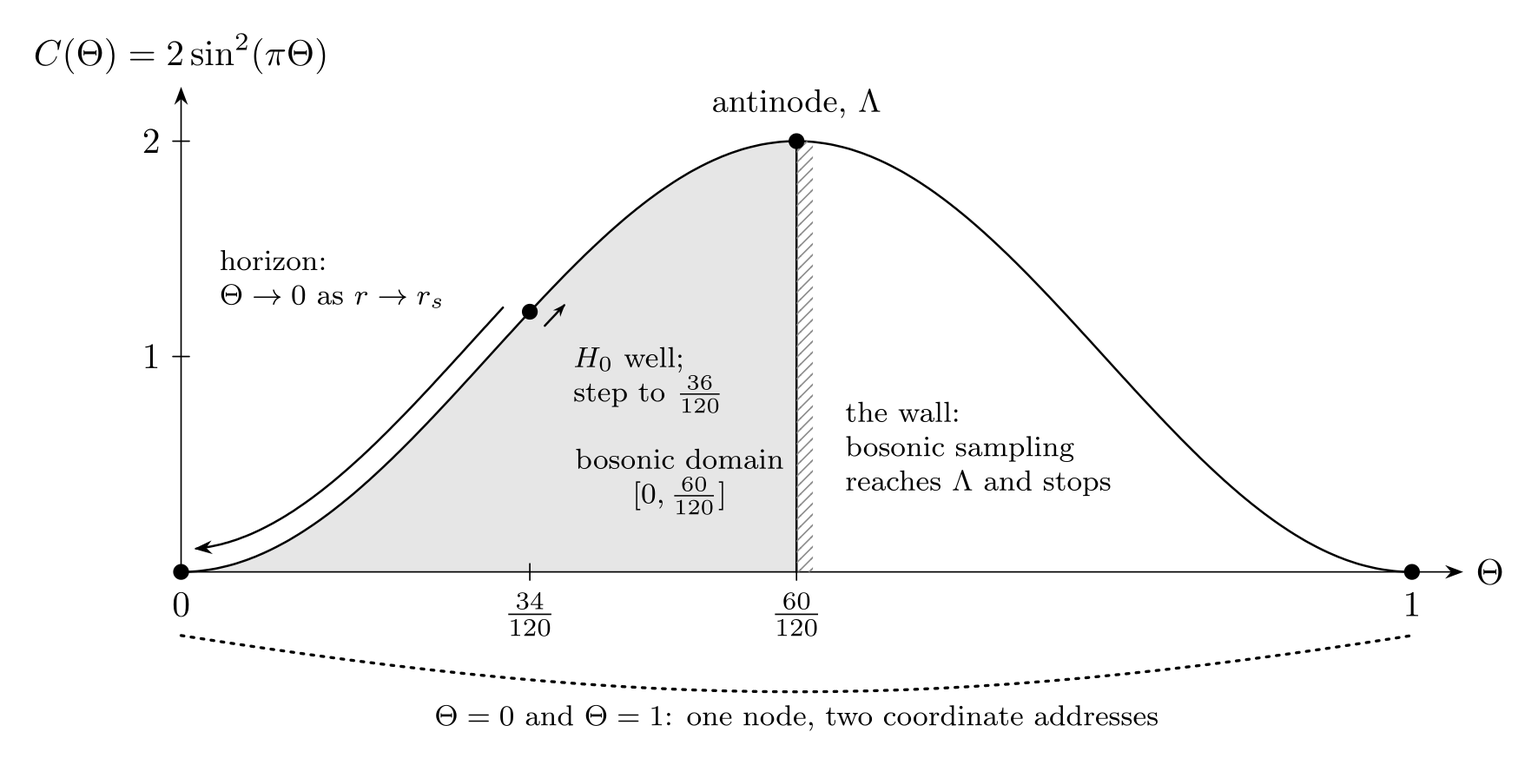
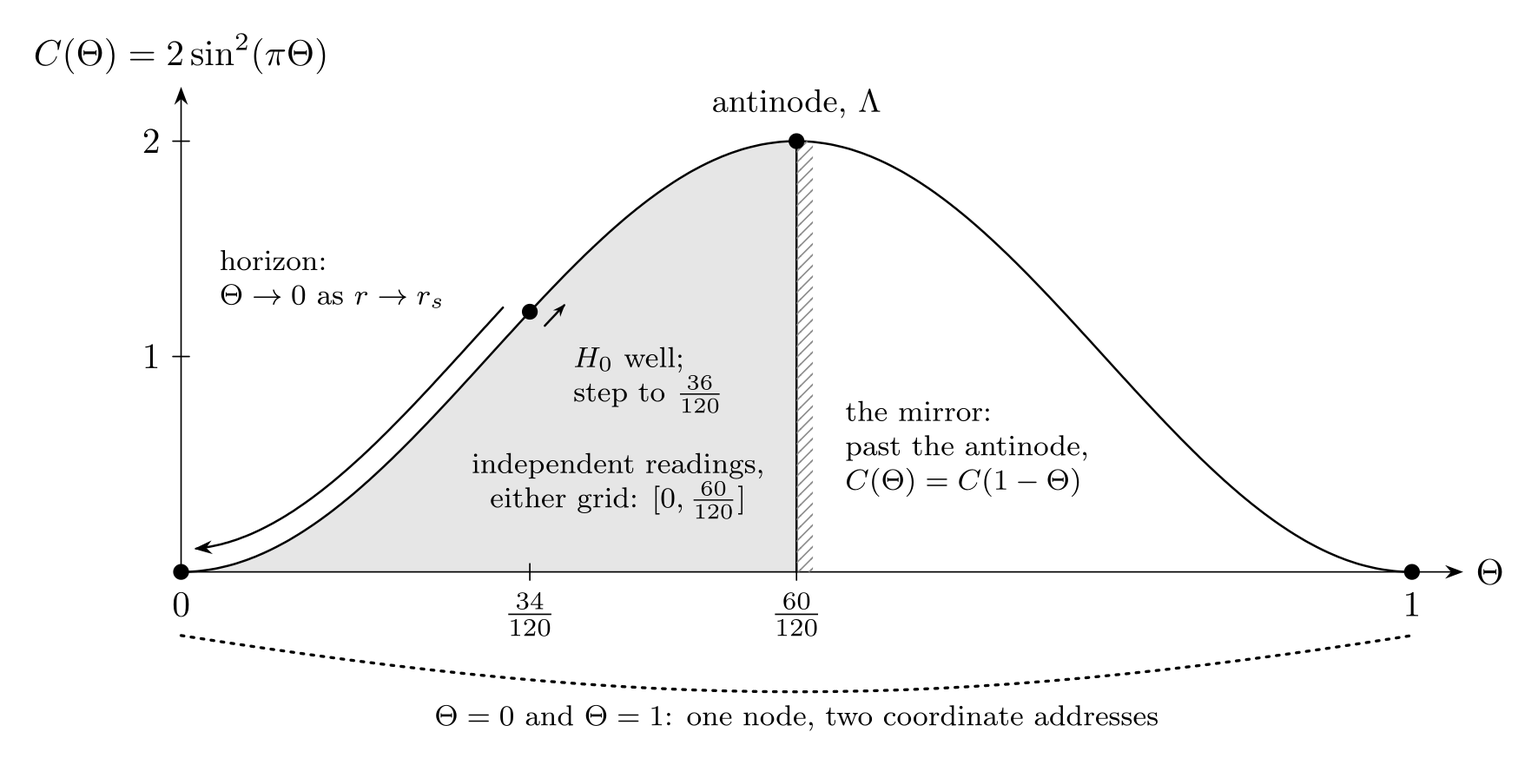
cosmos pages: Black Holes and Early Galaxies against their sources
Black Holes places the 3/2 where the framework does, carrying the
surface's curvature into the spatial curvature of S^3, with the 3
derived and the 2 imported, and keeps Omega_Psi apart from the edge
ledger Omega_H. Far from masses the ratio (Psi/S)^4 gives about
3 x 10^4 Omega_H; the Omega_Lambda normalization stays as the branch's
hypothesis. The antinode mirrors readings on both grids, with
C(Theta) = C(1 - Theta), rather than walling off a bosonic domain: the
section, its heading, the Quick Reference and the figure's labels say
so. The count of 28-32 of 32 characters is the Dirac zeta's.

Hubble Tension names the grid classes photon-mediated and dynamical, a
motivated assignment. Early Galaxies scopes the scaling law to its
readout premises and single-position observables, grades a_0/(cH_0) a
comparison on an assumed shared weight, as the Score rows also do, and
names the H_0 and a_0 seats as assignments. The README's Row IV cell
carries its deep-MOND clarification, and Dark Energy states what the
flat commitment costs under the propagation theorem.

Changed region(s): [[0.3106, 0.5823, 0.4969, 0.6742], [0.528, 0.521, 0.7143, 0.6436]]

diff --git a/files/cosmos/files/black-hole.md b/files/cosmos/files/black-hole.md
@@ -17,7 +17,7 @@ Where Θ hits the wall, and Ω may collapse with it. *A working supplement to Mo
 
 A Black Hole, in this framework, is presently a statement about the *exterior* geometry only: a region where enough wave content on the Möbius surface is enclosed that the phase position $`\Theta`$ reaches the boundary of its domain, driving the sampling amplitude $`C(\Theta) = 2\sin^2(\pi\Theta)`$ to zero as $`r \to r_s`$. That much, $`\Theta \to 0`$ and $`C(\Theta) \to 0`$ at the horizon, is DERIVED from the near-horizon mapping (§VIII.1), specifically for the exterior stationary observer congruence that mapping is built on (it is paired with the Schwarzschild lapse, §VIII.1). A freely falling observer crossing the horizon is not shown to experience any such vanishing, and in GR remains locally regular there; "observation ceases" throughout this page means the exterior stationary channel closes, not that observation ceases for every observer. A second, independent quantity, the local scale hierarchy $`\Omega_\Psi`$, is *conjectured* to collapse toward zero over the same approach; whether it does, for which observer's proper time, and how it relates to $`\Theta`$, is open (§II). Nothing here currently maps past the horizon: the interior and the classical singularity at $`r = 0`$ are not modeled by this construction (§VII).
 
-General Relativity sits at the 3/2 conversion interface (the 3 a Gauss/Ricci lift, the 1/2 the de Sitter vacuum normalization), between the temporal edge ($`n = 1`$) and the Möbius surface ($`n = 2`$). That 3/2 coincides numerically with face over edge, $`Z_3/Z_2`$, the stabilizer orders of the icosahedron; the framework marks that identity open. At the horizon, GR is squeezed from one side that is derived and one that is conjectured: the surface mode it reads has vanished ($`\Theta`$ at its boundary, so $`C = 0`$, DERIVED), and the edge hierarchy it converts through is conjectured to collapse ($`\Omega_\Psi \to 0`$, OPEN). The wave persists through the node. MIT reads the information as unsampled rather than destroyed; whether it is recoverable is open (§IV).
+General Relativity sits at the 3/2 conversion interface (the 3 a Gauss/Ricci lift, derived; the 1/2 the de Sitter vacuum normalization, imported), which carries the Möbius surface's curvature ($`n = 2`$) into the spatial curvature of $`S^3`$. That 3/2 coincides numerically with face over edge, $`Z_3/Z_2`$, the stabilizer orders of the icosahedron; the framework marks that identity open. At the horizon, two things close in on GR, one derived and one conjectured: the surface mode it reads has vanished ($`\Theta`$ at its boundary, so $`C = 0`$, DERIVED), and the local phase-gradient hierarchy, distinct from the edge ledger $`\Omega_H`$ (§II), is conjectured to collapse ($`\Omega_\Psi \to 0`$, OPEN). The wave persists through the node. MIT reads the information as unsampled rather than destroyed; whether it is recoverable is open (§IV).
 
 | GR says | MIT says |
 |---|---|
@@ -46,7 +46,7 @@ $`C(\Theta)`$ is where on the mode spectrum. $`(\sqrt{\Omega})^{-n}`$ is which l
 | $`C(\Theta) \to 0`$ | DERIVED, consequence of the above | Sampling amplitude vanishes: observation can no longer read the wave there |
 | $`\Omega_\Psi \to 0`$ | CONJECTURED / OPEN | Proposed local-hierarchy collapse; observer-dependence and relation to $`\Theta`$ not established |
 
-**Definition.** $`\Omega_\Psi \equiv (\ell_\text{phase}/\ell_P)^2`$, the local phase-gradient hierarchy, distinct from the cosmological rate ledger $`\Omega_H = (c/H\ell_P)^2`$ the [framework page](../../framework/README.md) uses and related to it by $`\Omega_\Psi/\Omega_H = (\Psi/S)^4`$, where $`\ell_\text{phase} = c/\kappa_\text{phase}`$ and $`\kappa_\text{phase} = |d\ln\Psi/d\tau|`$. Far from gravitating masses, the phase gradient is taken to relax to the global cosmological clock, giving $`\Omega_\Psi \approx \Omega_\Lambda \approx 10^{122}`$; that asymptotic normalization is a boundary hypothesis of this branch rather than an identity inherited from the cosmological ledger; that limit is well-defined because there is a preferred cosmological $`\tau`$. Near a horizon there is not: $`\tau`$ could mean a static exterior observer's proper time, a freely falling observer's proper time, an invariant norm of $`\nabla\ln\Psi`$, or a preferred MIT clock distinct from either GR family, and these are physically inequivalent choices. A static observer's proper time runs increasingly slow approaching $`r_s`$ (and no static observer exists at the horizon itself), which could drive $`\kappa_\text{phase}`$ to diverge and $`\ell_\text{phase}\to0`$ for that congruence specifically, while a freely falling observer's proper time is regular there and might not show the same collapse. Which congruence, if any, $`\Omega_\Psi`$ is built on is not yet specified. The claim "$`\Omega_\Psi\to0`$ at the horizon" is therefore a conjecture about a currently unstated observer choice, not a derived, observer-independent fact. This is frozen as its own question in [Ω_Ψ derivation](../../framework/files/working/files/omega-h-derivation.md).
+**Definition.** $`\Omega_\Psi \equiv (\ell_\text{phase}/\ell_P)^2`$, the local phase-gradient hierarchy, distinct from the cosmological rate ledger $`\Omega_H = (c/H\ell_P)^2`$ the [framework page](../../framework/README.md) uses and related to it by $`\Omega_\Psi/\Omega_H = (\Psi/S)^4`$, where $`\ell_\text{phase} = c/\kappa_\text{phase}`$ and $`\kappa_\text{phase} = |d\ln\Psi/d\tau|`$. Far from gravitating masses, the phase gradient is taken to relax to the global cosmological clock, where the ratio above gives $`\Omega_\Psi = (\Psi/S)^4\,\Omega_H`$, about $`3 \times 10^4`$ times $`\Omega_H \approx 10^{122}`$ at the joint fit's posterior median $`s_0 = 0.076`$; normalizing this branch to $`\Omega_\Psi \approx \Omega_\Lambda \approx 10^{122}`$ instead is a boundary hypothesis of the branch, not an identity inherited from the cosmological ledger; the far-field limit is well-defined because there is a preferred cosmological $`\tau`$. Near a horizon there is not: $`\tau`$ could mean a static exterior observer's proper time, a freely falling observer's proper time, an invariant norm of $`\nabla\ln\Psi`$, or a preferred MIT clock distinct from either GR family, and these are physically inequivalent choices. A static observer's proper time runs increasingly slow approaching $`r_s`$ (and no static observer exists at the horizon itself), which could drive $`\kappa_\text{phase}`$ to diverge and $`\ell_\text{phase}\to0`$ for that congruence specifically, while a freely falling observer's proper time is regular there and might not show the same collapse. Which congruence, if any, $`\Omega_\Psi`$ is built on is not yet specified. The claim "$`\Omega_\Psi\to0`$ at the horizon" is therefore a conjecture about a currently unstated observer choice, not a derived, observer-independent fact. This is frozen as its own question in [Ω_Ψ derivation](../../framework/files/working/files/omega-h-derivation.md).
 
 Even granting $`\Omega_\Psi\to0`$ for some choice of observer, the scaling law does not thereby acquire a "double zero." $`C(\Theta)`$ enters directly and vanishes; $`\Omega_\Psi`$ enters as $`\Omega_\Psi^{-n/2}`$, an *inverse* power, which *diverges* as $`\Omega_\Psi\to0`$. The product is the indeterminate form $`0\times\infty`$, resolved only by the relative rate at which each limit is approached, i.e. by $`\Omega_\Psi(\Theta)`$, which is not presently derived. If $`\Omega_\Psi\sim\Theta^p`$ near the horizon, the scaling-law output goes as $`\Theta^{2-pn/2}`$: it vanishes, stays finite, or diverges depending on $`p`$ and $`n`$. Until $`p`$ is derived, the joint limit is open.
 
@@ -241,13 +241,13 @@ What the framework has not yet done is restate that motion in its own language. 
 
 ## VI. The Phase Walk and the Closed Domain
 
-<p align="center"><img src="https://github.com/dmobius3/mode-identity-theory/blob/main/files/assets/bh-closed-domain.png?raw=true" width="85%" alt="The phase operator C(Theta) over the closed domain: the bosonic domain [0, 60/120] shaded up to its wall at the antinode, Lambda; the H0 well at 34/120 and the one-step displacement toward 36/120 that the Hubble-tension correspondence would need; the horizon walking continuously from the well down to the node at Theta = 0; and Theta = 0 and Theta = 1 joined as one node with two coordinate addresses"></p>
+<p align="center"><img src="https://github.com/dmobius3/mode-identity-theory/blob/main/files/assets/bh-closed-domain.png?raw=true" width="85%" alt="The phase operator C(Theta) over the closed domain: the independent readings [0, 60/120] shaded up to the antinode, Lambda, past which C(Theta) = C(1 - Theta) mirrors them; the H0 well at 34/120 and the one-step displacement toward 36/120 that the Hubble-tension correspondence would need; the horizon walking continuously from the well down to the node at Theta = 0; and Theta = 0 and Theta = 1 joined as one node with two coordinate addresses"></p>
 
 The [phase field](../../framework/README.md#the-phase-field) and the black hole case both move $`\Theta`$ on the same phase operator $`C(\Theta)`$, but not by the same mechanism. The phase-field shift would be a discrete environmental step (2/120). The trigger proposed to realize it is withdrawn: the pre-registered SPARC coherence test falsified it, and a separate exploratory check did not detect the two-cluster $`H_0`$ structure it predicted, so that correspondence has no active mechanism ([Hubble Tension](hubble-tension.md), §III and §V). The black hole case is a different, continuous mechanism: the Schwarzschild response $`C/C_0 = 1 - r_s/r`$ (§VIII.1), which in an ordinary galactic potential gives a smooth shift orders of magnitude below one bosonic step (§VIII.1, weak-field decoupling). They share the operator, not the response law, and the two numbers should not be expected to agree.
 
-### The bosonic domain has a wall
+### The antinode is a mirror
 
-The full 120-grid comes from $`|2I| = 120`$, and the 60R bosonic grid from the quotient $`2I \to I`$. The split traces to the edge stabilizer $`Z_4 \subset 2I`$: integer-spin irreps carry only real $`Z_4`$ content ($`D = 60`$), half-integer carry only complex pairs ($`D = 120`$). For photon-mediated observables, the effective domain is $`[0, 60/120]`$. The antinode at 60/120 is the boundary of the bosonic domain. Bosonic sampling reaches $`\Lambda`$ and stops.
+The full 120-grid comes from $`|2I| = 120`$, and the 60R bosonic grid from the quotient $`2I \to I`$. The split traces to the edge stabilizer $`Z_4 \subset 2I`$: integer-spin irreps carry only real $`Z_4`$ content ($`D = 60`$), half-integer carry only complex pairs ($`D = 120`$). Photon-mediated observables take the 60R grid by a motivated assignment that the representation theory does not supply. Its 60 positions are the even numerators over 120, so the two grids differ in resolution, not in reach. On either grid $`C(\Theta) = C(1 - \Theta)`$ mirrors each reading past the antinode at 60/120, where $`\Lambda`$ sits, so the antinode bounds both grids' independent readings, not bosonic ones alone.
 
 ### The two nodes are one point
 
@@ -259,7 +259,7 @@ One arch, one node (with two coordinate addresses), one antinode.
 
 ### The spectral mirror
 
-The spectral side exhibits the same structure. Moving away from $`s = 0`$ opens the Pochhammer tower (factorization breaks, 28-32 of 32 characters contribute). Moving toward $`s = 0`$ collapses it (4 of 16 characters survive). The "clean" direction is toward the zero. The "messy" direction is away from it. This matches: the horizon (toward $`\Theta = 0`$, where $`C`$ vanishes) is where structure simplifies; the interior of the domain (away from both zeros) is where everything participates.
+The spectral side exhibits the same structure. Moving away from $`s = 0`$ opens the Pochhammer tower, and the scalar zeta's factorization breaks; the Dirac zeta, which carries no such tower, factors at every $`s`$, with 28-32 of 32 characters contributing. Moving toward $`s = 0`$ collapses the tower (4 of 16 characters survive). The "clean" direction is toward the zero. The "messy" direction is away from it. This matches: the horizon (toward $`\Theta = 0`$, where $`C`$ vanishes) is where structure simplifies; the interior of the domain (away from both zeros) is where everything participates.
 
 ---
 
@@ -407,9 +407,9 @@ diverges as $`\Theta \to 0`$ and vanishes at $`\Theta = 1/2`$: this says $`C`$ i
 | $`C(60/120)`$ | 2.00 | Antinode ($`\Lambda`$) |
 | $`\Phi_N/c^2`$ at Schwarzschild horizon | -1/2 | Schwarzschild-radius identity using Newtonian $`\Phi_N=-GM/r`$; the exact GR object is $`g_{tt}`$, not $`\Phi_N`$ |
 | $`\Phi \to \Theta`$ mapping | near-horizon exponent $`\beta = 1`$ forced; $`C/C_0 = 1-r_s/r`$ globally is the minimal extension | DERIVED (exponent only); global form and coefficient are a choice |
-| Bosonic domain | $`[0, 60/120]`$ | $`\lvert I \rvert = 60`$, from the quotient $`2I \to I`$ |
+| Bosonic grid | 60 positions, the even numerators over 120 | $`\lvert I \rvert = 60`$, from the quotient $`2I \to I`$ |
 | Bosonic step | $`2/120 = 1/60`$ | Minimum observable shift |
-| Full domain | $`[0, 120/120]`$ | $`\lvert 2I \rvert = 120`$ |
+| Full domain | $`[0, 120/120]`$, read independently up to the antinode on either grid | $`\lvert 2I \rvert = 120`$; $`C(\Theta) = C(1 - \Theta)`$ |
 | Fermionic step | 1/120 | Full lattice resolution |
 | Bekenstein-Hawking entropy | $`S = A/(4\ell_P^2)`$ | Observed; MIT: motivated by surface primacy ($`n = 2`$); 1/4 factor OPEN |
 | Hawking temperature | $`T = \hbar c^3/(8\pi G M k_B)`$ | $`du_0/d\ell\vert_H = \sqrt{A}\sin(\pi\Theta_0) \cdot \kappa_\text{geom}`$; $`1/M`$ scaling DERIVED for mass-independent $`A`$; $`\sin(\pi\Theta_0)`$ under the minimal choice $`A=1`$; temperature normalization and thermal character INHERITED |

diff --git a/README.md b/README.md
@@ -221,7 +221,7 @@ The framework's quantitative claims, with their standing shown explicitly:
 | [↗](/files/cosmos/files/cmb-anomalies.md#iv-the-molien-shell-gap) CMB low-ℓ deficit | `open` | Molien gap; last empty level near $`\ell \approx 24`$ on the coupling route's R, with α at $`q^2 = 0`$ ($`\ell \approx 28`$ on the circular $`\Lambda`$ back-read); sky projection not derived | deficit below $`\ell \lesssim 30`$ | — |
 | [↗](/files/cosmos/files/hubble-tension.md#i-the-tension) $`H_0 \cdot t_P`$ | `input` | — | $`1.18 \times 10^{-61}`$ from measured $`H_0`$ | — |
 | [↗](/files/cosmos/files/hubble-tension.md#the-84-displacement) $`H_0`$ local shift | `open` | 8.4% lattice step, $`67.4 \to 73.04`$ | SH0ES scale; retrospective, and the galactic trigger proposed to realize the step is falsified; no mechanism is active | — |
-| [↗](/files/cosmos/files/early-galaxies.md#the-ratio-from-the-scaling-law) $`a_0/(cH_0)`$ | `anchor-free` | 0.184 | 0.183 (SPARC $`a_0`$, Planck $`H_0`$) | central values within 1%; $`a_0`$ normalization uncertain at tens of percent |
+| [↗](/files/cosmos/files/early-galaxies.md#the-ratio-from-the-scaling-law) $`a_0/(cH_0)`$ | `anchor-free` | 0.184 | 0.183 (SPARC $`a_0`$, Planck $`H_0`$) | central values within 1%, on one weight assumed for both rows; $`a_0`$ normalization uncertain at tens of percent |
 | [↗](/files/cosmos/files/early-galaxies.md#the-evolutionary-law) $`a_0(z) \propto H(z)`$ | `open` | $`a_0(z{=}2) \approx 3\times`$ local | rising direction corroborated to $`z = 1.44`$ (MUSE-DARK III); rate open; the $`z > 2`$ test pending | — |
 | [↗](/files/spectrum/files/the-waltz.md#iv-dark-matter-and-dark-energy-as-geometry) Null dark matter | `open` | no particle dark-matter sector in the present construction | ongoing direct-detection nulls | — |
 | [↗](/files/spectrum/files/yang-mills.md#i-the-geometry) Mass gap | `exact` | $`> 0`$; the linearized coexact gap on the compact space, not the flat $`\mathbb{R}^4`$ quantum gap | — | — |
@@ -258,7 +258,7 @@ The framework's quantitative claims, with their standing shown explicitly:
 | [↗](/files/cosmos/files/euclid-dr1.md#i-lambda-epoch-independence) $`\Lambda`$ epoch-independence | $`\Lambda`$ does not evolve; the fixed radius supplies the reference $`\Lambda_\text{ref} = 3/R^2`$, whose physical identification is open; $`\Omega_\text{DE}(z)`$ flat across the DR1 bins under the registered rule (§I) | Flat ΛCDM also uses an epoch-independent cosmological constant; dynamical-dark-energy models allow the dark-energy sector to evolve. | Either of two binned reconstructions in the DR1 BAO bins, one holding matter at the fiducial fraction and one fitting it, varies at $`\geq 2\sigma`$ (scoring rule set 2026-09-21) |
 | [↗](/files/cosmos/files/euclid-dr1.md#ii-a_0z-evolution) $`a_0(z)`$ evolution | $`a_0(z) = a_0(0) \cdot H(z)/H_0`$; $`a_0(z{=}1.5) \approx 2.4\times`$ local. The ratio is anchor-independent. | ΛCDM has no fundamental universal $`a_0`$; standard MOND phenomenology normally treats $`a_0`$ as approximately constant. | Euclid DR1 galaxy-galaxy lensing and stellar-mass-halo-mass scaling show no enhancement consistent with the predicted $`a_0(z)`$ evolution, while external $`z \approx 1`$–1.5 kinematic follow-up rules out the predicted $`a_0(z)`$ evolution at $`\geq 2\sigma`$, with $`a_0(z{=}1.5)`$ consistent with the constant $`a_0(0)`$. The lensing channel needs a relativistic completion MIT has not supplied; without one the row defers to DR2 and outside kinematics and is not counted |
 | [↗](/files/cosmos/files/euclid-dr1.md#iii-w_texteffz-trajectory) $`w_\text{eff}(z)`$ trajectory | $`w_\text{eff}(z) > -1`$ at all $`z \ge 0`$ in the registered fiducial split for any $`s_0 > 0`$, and $`-1`$ at $`s_0 = 0`$ (clarified 2026-10-24). | Flat ΛCDM gives $`w=-1`$; phenomenological dynamical-dark-energy fits allow departures on either side, including phantom crossing. | Fiducial split gives $`w_\text{eff}(z) < -1`$ at $`\geq 2\sigma`$ |
-| [↗](/files/cosmos/files/euclid-dr1.md#iv-stellar-mass-function-at-z-gtrsim-10) Stellar mass function at $`z \gtrsim 10`$ | JWST-style massive galaxies persist in Euclid wide-area statistics; reachable with $`\varepsilon_\text{SF} \lesssim 1`$ under $`a_0(z{=}10) \approx 20.5\times`$. | Standard ΛCDM galaxy formation predicts the abundance from halo statistics and baryonic star-formation efficiency; the comparison is the ceiling Boylan-Kolchin (2023) derives at full star-formation efficiency (scoring rule set 2026-09-23, power rule made exact 2026-09-24; scored on the first qualifying Euclid measurement; the JWST measurements examined lie inside it). | Abundance of $`M_{*} \sim 10^{10}\ M_\odot`$ galaxies at $`z > 10`$ falls within Boylan-Kolchin (2023) ΛCDM SMF forecast at $`\geq 2\sigma`$ |
+| [↗](/files/cosmos/files/euclid-dr1.md#iv-stellar-mass-function-at-z-gtrsim-10) Stellar mass function at $`z \gtrsim 10`$ | JWST-style massive galaxies persist in Euclid wide-area statistics; reachable with $`\varepsilon_\text{SF} \lesssim 1`$ under $`a_0(z{=}10) \approx 20.5\times`$, a translation through the deep-MOND relation, conditionally (clarified 2026-09-25). | Standard ΛCDM galaxy formation predicts the abundance from halo statistics and baryonic star-formation efficiency; the comparison is the ceiling Boylan-Kolchin (2023) derives at full star-formation efficiency (scoring rule set 2026-09-23, power rule made exact 2026-09-24; scored on the first qualifying Euclid measurement; the JWST measurements examined lie inside it). | Abundance of $`M_{*} \sim 10^{10}\ M_\odot`$ galaxies at $`z > 10`$ falls within Boylan-Kolchin (2023) ΛCDM SMF forecast at $`\geq 2\sigma`$ |
 | [↗](/files/cosmos/files/euclid-dr1.md#v-1z1-coefficient-in-h2z) $`(1+z)^1`$ coefficient in $`H^2(z)`$ | A coefficient **sign-fixed by the construction**: negative for any $`s_0 > 0`$ and zero at $`s_0 = 0`$, which current data allow, with magnitude $`\lvert\beta\rvert < 0.012`$ tied to $`s_0`$. | Flat ΛCDM has no $`(1+z)^1`$ term in $`H^2(z)`$: the coefficient is zero. | Coefficient positive at $`\geq 2\sigma`$, or magnitude inconsistent with fitted $`s_0`$ |
 
 ---

diff --git a/files/cosmos/files/dark-energy.md b/files/cosmos/files/dark-energy.md
@@ -44,7 +44,7 @@ MIT sharpens this question. The Möbius spectral problem has first positive eige
 
 <p align="center"><img src="https://github.com/dmobius3/mode-identity-theory/blob/main/files/assets/de-redshift-phase-ratio.png?raw=true" width="80%" alt="Redshift as a ratio of phase positions: on the wave S = sin(t/2) the observer sits at s0 and light from z = 1 and z = 3 was emitted at s0/2 and s0/4, so 1 + z = s0/S; shown at the 95% bound s0 = 0.19, with an inset of the whole first half-lap"></p>
 
-The cosmos is a finite, static three-sphere; what the data sees is a flat-FLRW cosmology, the spatial curvature a static boundary condition rather than a Friedmann term, so the apparent $`\Omega_K`$ is zero. That flat effective description is adopted, not derived: the projection that would carry the closed static sphere to flat effective slices is an open problem ([the stress-tensor bridge](../../framework/files/working/files/stress-tensor-bridge.md#vi-first-results-the-pinned-target)). Its curvature radius enters as the de Sitter scale $`R_\Lambda = \sqrt{3/\Lambda} \approx 5.38`$ Gpc, read back from the observed $`\Lambda`$ and so circular as a derivation. Two routes reach $`R`$ independently of that circle: the coupling ($`\alpha`$) route lands near 6.1 Gpc with $`\alpha`$ read at zero momentum transfer, and the particle mass spectrum gives an order-of-magnitude reading of about 10.5 to 20 Gpc, depending on the assigned pair read, between 1.7 and 3.2 times the coupling-route radius. Closing that gap is the open [R problem](../../framework/files/working/files/r-problem.md). The Möbius surface forces the wave to flip sign halfway around, giving the standing wave $`\Psi = \cos(t/2)`$ with a full phase period of $`4\pi`$ (a duration in Gyr requires the still-open phase-to-clock map). The quantity $`S = \sin(t/2)`$ is the realization amplitude of the model, the bounded fraction of the wave expressed as resolvable modes at phase $`t`$; turning it into a matter density or $`T_{\mu\nu}`$ is an open step. It starts at 0 and grows to 1.
+The cosmos is a finite, static three-sphere; what the data sees is a flat-FLRW cosmology, the spatial curvature a static boundary condition rather than a Friedmann term, so the apparent $`\Omega_K`$ is zero. That flat effective description is adopted, not derived: the projection that would carry the closed static sphere to flat effective slices is an open problem ([the stress-tensor bridge](../../framework/files/working/files/stress-tensor-bridge.md#vi-first-results-the-pinned-target)). Light would see closed, round slices instead if its carrier obeyed a linear, local wave law on the static domain, of order at most five, equivariant under the domain's transitive symmetry and with a real scalar principal symbol, and the effective metric metricized its cone with the domain's symmetry ([the propagation theorem](../../framework/files/working/files/propagation-theorem.md#v-bearing-on-the-bridge)); flat slices therefore need a carrier outside that class, a representative that gives up the symmetry on an open patch, or no such metricization. The sphere's curvature radius enters as the de Sitter scale $`R_\Lambda = \sqrt{3/\Lambda} \approx 5.38`$ Gpc, read back from the observed $`\Lambda`$ and so circular as a derivation. Two routes reach $`R`$ independently of that circle: the coupling ($`\alpha`$) route lands near 6.1 Gpc with $`\alpha`$ read at zero momentum transfer, and the particle mass spectrum gives an order-of-magnitude reading of about 10.5 to 20 Gpc, depending on the assigned pair read, between 1.7 and 3.2 times the coupling-route radius. Closing that gap is the open [R problem](../../framework/files/working/files/r-problem.md). The Möbius surface forces the wave to flip sign halfway around, giving the standing wave $`\Psi = \cos(t/2)`$ with a full phase period of $`4\pi`$ (a duration in Gyr requires the still-open phase-to-clock map). The quantity $`S = \sin(t/2)`$ is the realization amplitude of the model, the bounded fraction of the wave expressed as resolvable modes at phase $`t`$; turning it into a matter density or $`T_{\mu\nu}`$ is an open step. It starts at 0 and grows to 1.
 
 Redshift is a ratio of phase positions:
 

diff --git a/files/cosmos/files/early-galaxies.md b/files/cosmos/files/early-galaxies.md
@@ -24,7 +24,7 @@ MIT predicts $`a_0`$ evolves while $`\Lambda`$ is epoch-independent: the inverse
 | Quantity | Value |
 |---|---|
 | Scaling law | $`a_0(z) = a_0(0) \times H(z)/H_0`$ |
-| $`a_0/(cH_0)`$ ratio | predicted: 0.184 / observed: 0.183 (SPARC $`a_0`$, Planck $`H_0`$; $`a_0`$ uncertain at tens of percent) |
+| $`a_0/(cH_0)`$ ratio | framework: 0.184 / observed: 0.183 (SPARC $`a_0`$, Planck $`H_0`$), a comparison resting on the two edge rows sharing one weight; $`a_0`$ uncertain at tens of percent |
 | At $`z = 10`$ | $`a_0 \approx 2.46 \times 10^{-9}`$ m/s² (20.5× local) |
 | Collapse speedup | ~2.1× faster through the deep-MOND relation, conditionally (upper-bound estimate against constant-$`a_0`$ MOND: $`\varepsilon_\text{SF} \sim 0.5`$) |
 
@@ -52,7 +52,7 @@ with $`\Omega_\Lambda = 0.685`$ held fixed as the fiducial vacuum-fraction ancho
 
 ### The Ratio from the Scaling Law
 
-The MIT scaling law relates any observable $`A`$ to the Planck reference $`A_P`$ through a phase coefficient and a power of the hierarchy number $`\sqrt{\Omega}`$:
+Within its adopted first-positive and linear-intensity readout premises, the MIT scaling law relates an observable $`A`$ read at a single phase position and a single manifold depth to the Planck reference $`A_P`$, through a phase coefficient and a power of the hierarchy number $`\sqrt{\Omega}`$:
 
 ```math
 \frac{A}{A_P} = C(\Theta) \cdot (\sqrt{\Omega})^{-n}
@@ -66,7 +66,7 @@ Both $`a_0`$ and $`H`$ sit on the temporal edge ($`n = 1`$), referencing the sam
 \frac{a_0}{cH} = \frac{C(13/120)}{C(34/120)} = \frac{2\sin^2(13\pi/120)}{2\sin^2(34\pi/120)} = \frac{0.223}{1.208} = 0.184
 ```
 
-With $`H_0 = 67.4`$ km/s/Mpc (the measured Planck anchor), $`cH_0 = 6.55 \times 10^{-10}`$ m/s², giving observed $`a_0/(cH_0) = 1.2/6.55 = 0.183`$, with $`a_0`$ itself uncertain at tens of percent ([Update 1](early-galaxies-update1.md)). The positions 13/120 and 34/120 have Fibonacci numerators on the 120-grid: two of the framework's wells, which continue a recurrence with no derived sampling rule.
+With $`H_0 = 67.4`$ km/s/Mpc (the measured Planck anchor), $`cH_0 = 6.55 \times 10^{-10}`$ m/s², giving observed $`a_0/(cH_0) = 1.2/6.55 = 0.183`$, with $`a_0`$ itself uncertain at tens of percent ([Update 1](early-galaxies-update1.md)). The positions 13/120 and 34/120 have Fibonacci numerators on the 120-grid: two of the framework's wells, which continue a recurrence with no derived sampling rule. The seats are assignments too: $`H_0`$ at 34 is forced once the motivated photon-mediated-to-60R assignment is granted, while $`a_0`$ at 13, the unique coprime well, is a diagnostic the corpus carries rather than a derived rule, read on the full 120-grid by a motivated assignment; on the 60R grid the same ratio would be $`C(13/60)/C(34/120) = 0.656`$.
 
 Two scope notes follow from this. The absolute scale is calibrated off the measured $`H_0`$ through the kinematic hierarchy $`\Omega_H = (c/(H\ell_P))^2`$, so the prediction does not depend on the open curvature radius $`R`$; only the companion claim that $`\Lambda`$ is constant touches it (the open [R problem](../../framework/files/working/files/r-problem.md)). And the ratio rests on the edge-mode positions and that shared normalization, not on the galactic coherence mechanism $`L_f = v_c^2/a_0`$ that the SPARC test falsified.
 

diff --git a/files/cosmos/files/hubble-tension.md b/files/cosmos/files/hubble-tension.md
@@ -53,7 +53,7 @@ The phase operator $`C(\Theta) = 2\sin^2(\pi\Theta)`$ (the anti-periodic first-p
 | $`H_0`$ | 34/120 | 5.09 | $`+8.4\%`$ | measured through the field |
 | $`\Lambda`$ | 60/120 | 0 | $`-0.27\%`$ | stationary to first order at the antinode |
 
-The displacement column applies the same upward step at every well for comparison. Whether that step is the allowed one at $`a_0`$ is not settled here, since the framework treats $`a_0`$ as a dynamical rather than a bosonic observable.
+The displacement column applies the same upward step at every well for comparison. Whether that step is the allowed one at $`a_0`$ is not settled here, since the framework treats $`a_0`$ as a dynamical rather than a photon-mediated observable.
 
 $`\Lambda`$ sits at the antinode where the derivative vanishes identically, so it is stationary to first order in $`\Theta`$. It is not invariant under a finite step:
 
@@ -85,7 +85,7 @@ which is the SH0ES scale. No galactic physics enters this calculation.
 
 ### What the step size assumes
 
-Geometric observables are taken to access the 60-position bosonic sublattice, the even positions $`k/120 = j/60`$. That assignment is a framework selection rule, not a derivation, and it is the load-bearing assumption of this section. The stakes are direct: a displacement of $`1/120`$ would give $`C(35/120)/C(34/120) = 1.0421`$, a 4.2% shift rather than 8.4%.
+Photon-mediated observables are taken to access the 60-position bosonic sublattice, the even positions $`k/120 = j/60`$, and dynamical ones the full 120. That assignment is a motivated framework selection rule with no representation-theoretic ground, not a derivation, and it is the load-bearing assumption of this section. The stakes are direct: a displacement of $`1/120`$ would give $`C(35/120)/C(34/120) = 1.0421`$, a 4.2% shift rather than 8.4%.
 
 Both available steps have a published local determination close to them. Against the same 67.4 baseline, SH0ES implies $`+8.4\%`$ and matches the $`2/120`$ step, while the Carnegie-Chicago tip-of-the-red-giant-branch value of 70.39 $`\pm`$ 1.22 (stat) $`\pm`$ 1.33 (sys) (Freedman et al. 2025, combined HST and JWST, 24 SN Ia calibrators) implies $`+4.4\%`$, close to the 4.2% of the $`1/120`$ step. The uncertainties do separate SH0ES from the $`1/120`$ endpoint, at two to three standard deviations. They do not separate the two local determinations from each other. The same programme's JWST-only figures, 68.81 and 67.80, imply offsets near 2.1% and 0.6% and match no lattice step at all.
 

diff --git a/files/cosmos/README.md b/files/cosmos/README.md
@@ -105,7 +105,7 @@ The 120-element group that forms the space leaves an empty stretch in its vibrat
 | [↗](files/cmb-anomalies.md#iv-the-molien-shell-gap) CMB low-ℓ deficit | `open` | Molien gap; last empty level near $`\ell \approx 24`$ on the coupling route's R, with α at $`q^2 = 0`$ ($`\ell \approx 28`$ on the circular $`\Lambda`$ back-read); sky projection not derived | deficit below $`\ell \lesssim 30`$ | — |
 | [↗](files/hubble-tension.md#i-the-tension) $`H_0 \cdot t_P`$ | `input` | — | $`1.18 \times 10^{-61}`$ from measured $`H_0`$ | — |
 | [↗](files/hubble-tension.md#the-84-displacement) $`H_0`$ local shift | `open` | 8.4% lattice step, $`67.4 \to 73.04`$ | SH0ES scale; retrospective, and the galactic trigger proposed to realize the step is falsified; no mechanism is active | — |
-| [↗](files/early-galaxies.md#the-ratio-from-the-scaling-law) $`a_0/(cH_0)`$ | `anchor-free` | 0.184 | 0.183 (SPARC $`a_0`$, Planck $`H_0`$) | central values within 1%; $`a_0`$ normalization uncertain at tens of percent |
+| [↗](files/early-galaxies.md#the-ratio-from-the-scaling-law) $`a_0/(cH_0)`$ | `anchor-free` | 0.184 | 0.183 (SPARC $`a_0`$, Planck $`H_0`$) | central values within 1%, on one weight assumed for both rows; $`a_0`$ normalization uncertain at tens of percent |
 | [↗](files/early-galaxies.md#the-evolutionary-law) $`a_0(z) \propto H(z)`$ | `open` | $`a_0(z{=}2) \approx 3\times`$ local | rising direction corroborated to $`z = 1.44`$ (MUSE-DARK III); rate open; the $`z > 2`$ test pending | — |
 
 ---
